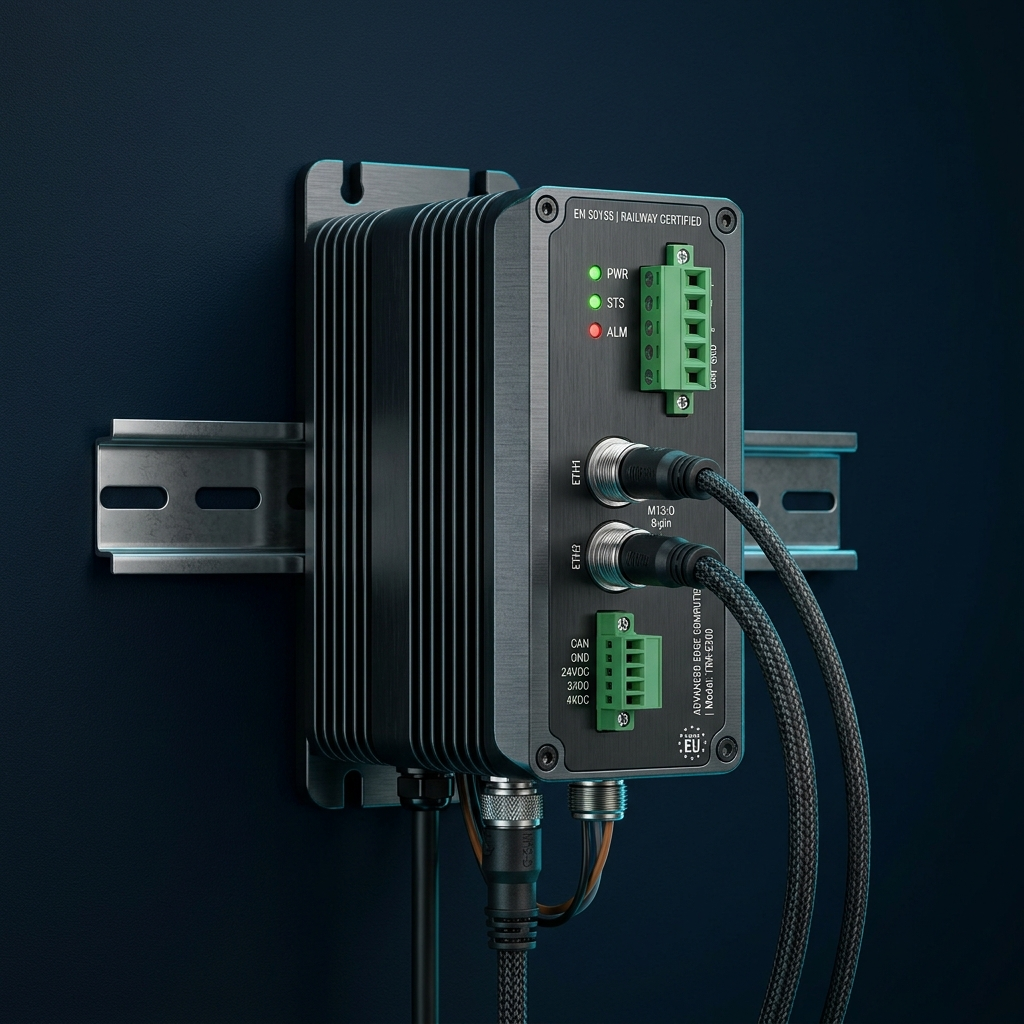
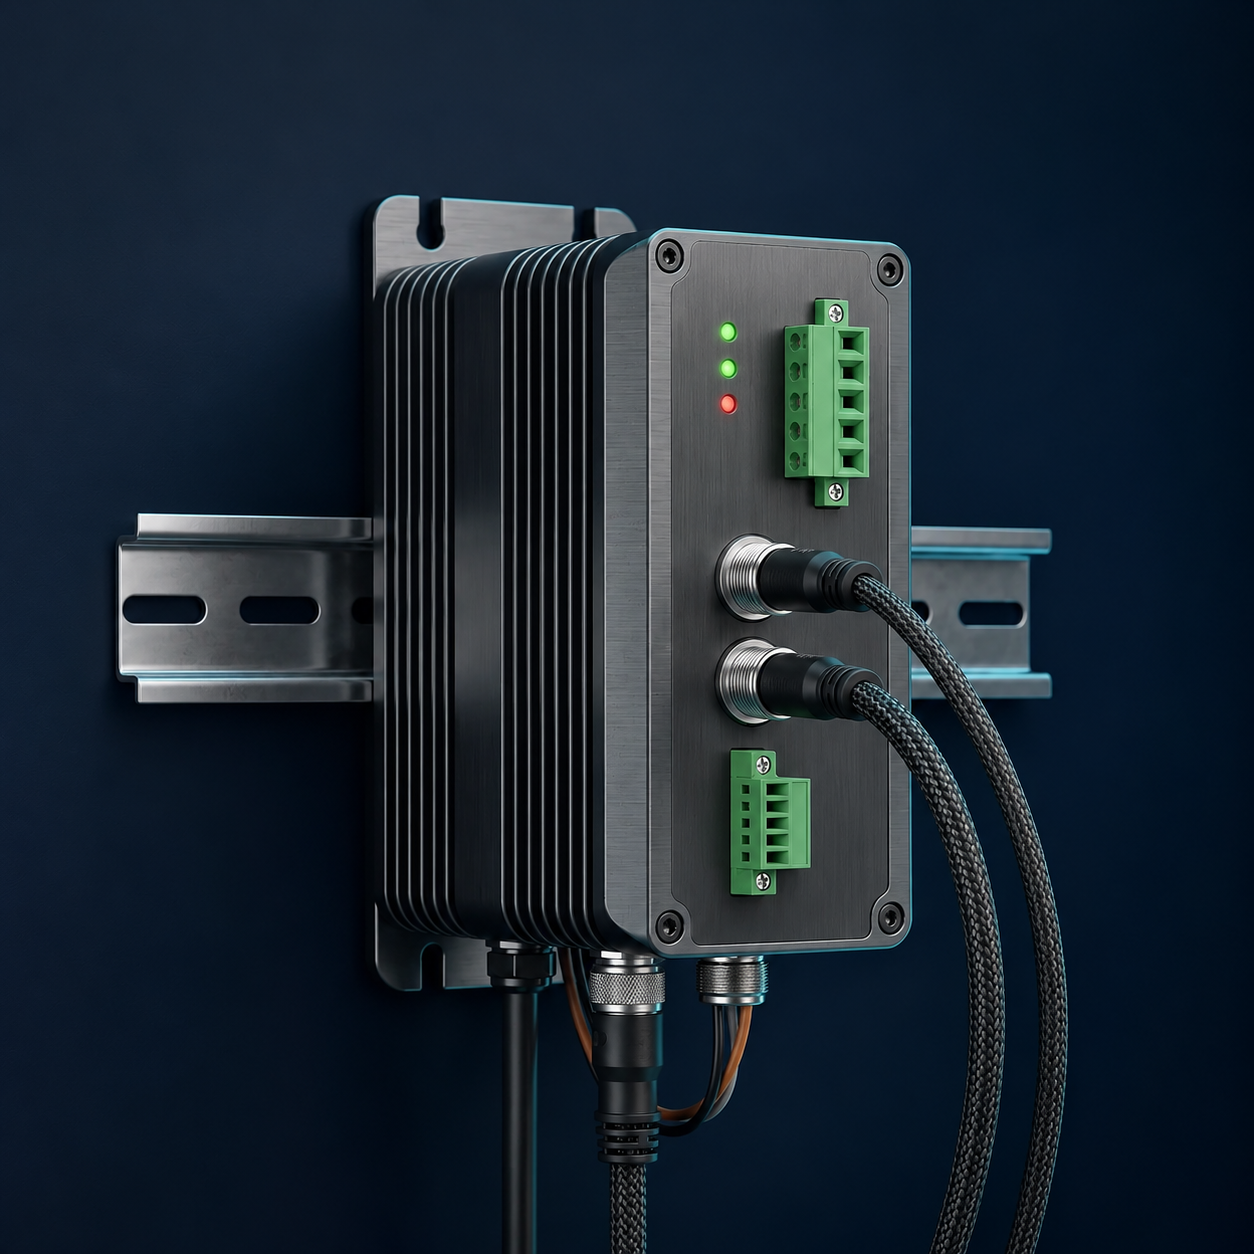
feat: set industrial-computing-hd image for Industries We Serve slide

diff --git a/src/pages/AboutUsPage.jsx b/src/pages/AboutUsPage.jsx
@@ -333,7 +333,7 @@ export default function AboutUsPage() {
               <div className="relative w-full max-w-md rounded-2xl overflow-hidden border border-slate-200/90 dark:border-white/15 bg-slate-50 dark:bg-[#101936] shadow-xl p-2.5 sm:p-3 group">
                 <div className="relative rounded-xl overflow-hidden aspect-[4/3] bg-slate-100 dark:bg-[#0b1226]">
                   <img
-                    src="/images/industrial-computing-hd.jpg"
+                    src="/images/industrial-computing-hd.png"
                     alt="AIEGX Industrial Embedded Computing"
                     className="w-full h-full object-cover group-hover:scale-105 transition-transform duration-500"
                     loading="lazy"

diff --git a/src/components/hero/Hero.jsx b/src/components/hero/Hero.jsx
@@ -41,8 +41,8 @@ export const heroSlides = [
     description: 'Delivering embedded hardware products and integrated solutions for Railways, Public Transportation, Security & Surveillance, Smart Cities, and Defence applications.',
     ctaText: 'Explore Industries',
     ctaHref: '#industries',
-    image: '/images/industrial-computing-hd.jpg',
-    fallbackImage: '/images/sbc-platform-hd.jpg',
+    image: '/images/industrial-computing-hd.png',
+    fallbackImage: '/images/industrial-computing-hd.png',
     alt: 'AIEGX Industrial Computing Hardware'
   },
   {
